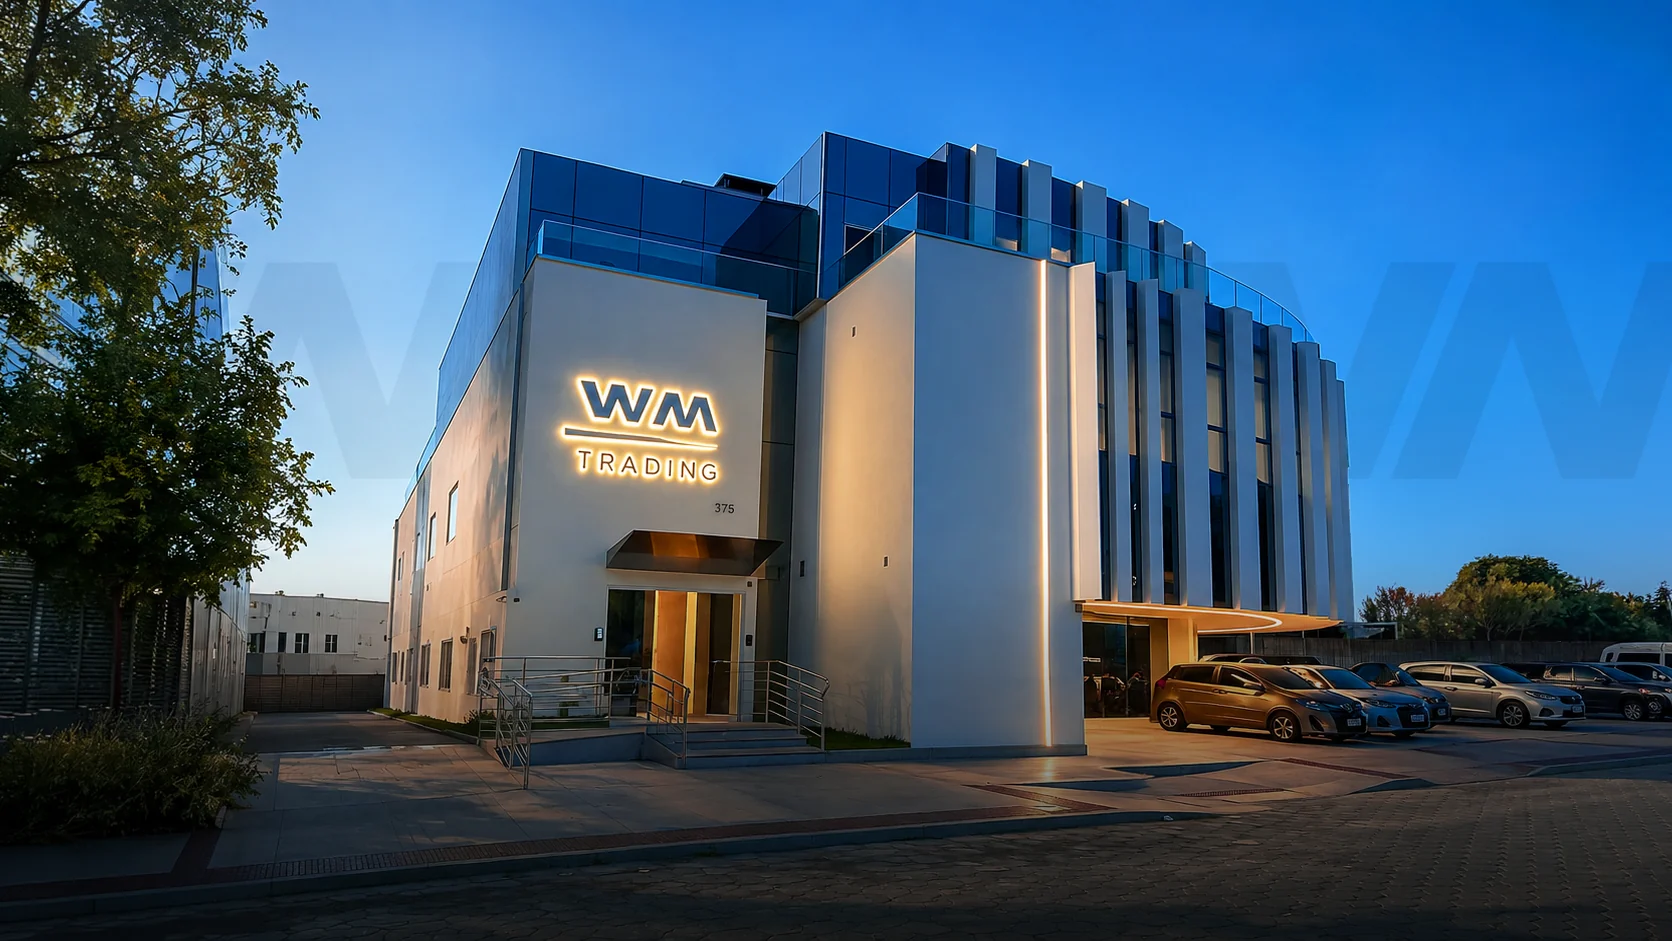
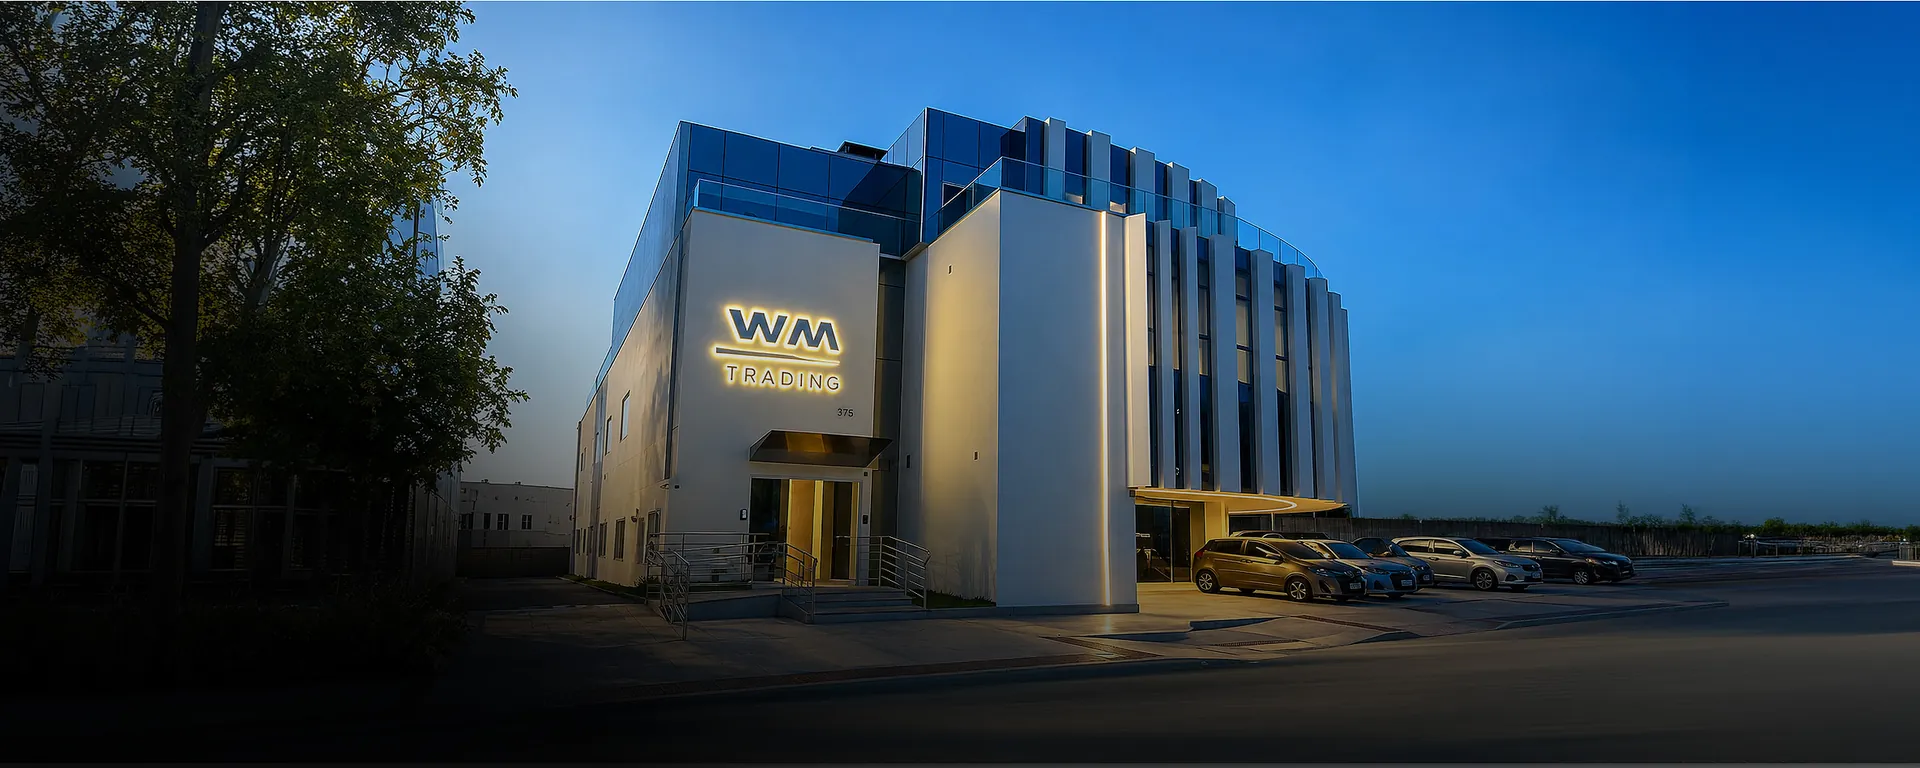
feat(quem-somos): novo fundo do hero, claim centrado e foto de carreiras maior
O fundo do hero passa a ser a foto do predio ao anoitecer, com o logo aceso
(predio wm.jpg). Guardei em 1920x768 e 133 KB: e a imagem do LCP da pagina e
entra por background cover, entao largura maior viraria peso morto. O nome do
arquivo nao muda, e o preload do <head> continua valendo.

O claim sobre o bloco branco volta a ser centrado na vertical: 32px de folga em
cima e embaixo dos 160px do bloco. O padding vertical tem de ser simetrico —
com os 14px que existiam so em cima, o `center` mediria de uma caixa deslocada e
o texto desceria 7px do meio real.

A foto de carreiras cresce: as colunas vao de 0.85/1.15 para 0.68/1.32 e o
intervalo de 64px para 56px. A foto sai de 547px para 649px de largura (+19%) e
o texto fica com 334px, que segura o paragrafo em 3 linhas e o botao inteiro.

diff --git a/css/quem-somos.css b/css/quem-somos.css
@@ -144,11 +144,12 @@
   z-index: 1;
   min-height: var(--qs-forma-altura);
   display: flex;
-  /* AJUSTE: era `center` com 14px de padding em cima e embaixo, o que deixava 21px
-     de folga sob a última linha. Agora o texto encosta na base do bloco. */
-  align-items: flex-end;
+  /* Centrado na vertical do bloco branco. O padding vertical tem de ficar
+     simétrico (zero nos dois lados): com 14px só em cima, o `center` mediria a
+     partir de uma caixa deslocada e o texto desceria 7px do meio real. */
+  align-items: center;
   justify-content: flex-end;
-  padding: 14px var(--qs-hero-recuo) 0 0;
+  padding: 0 var(--qs-hero-recuo) 0 0;
 }
 .qs-claim {
   margin: 0;
@@ -749,8 +750,11 @@
 .qs-carreiras__grid {
   position: relative;
   display: grid;
-  grid-template-columns: minmax(0, 0.85fr) minmax(0, 1.15fr);
-  gap: 64px;
+  /* A foto leva mais da linha do que o texto: 0.68/1.32 com 56px de intervalo
+     dá ~650px de foto contra os ~547px de antes, e sobram ~334px para o texto —
+     largura suficiente para o parágrafo em 4 linhas e o botão inteiro. */
+  grid-template-columns: minmax(0, 0.68fr) minmax(0, 1.32fr);
+  gap: 56px;
   align-items: center;
 }
 .qs-carreiras__title {
